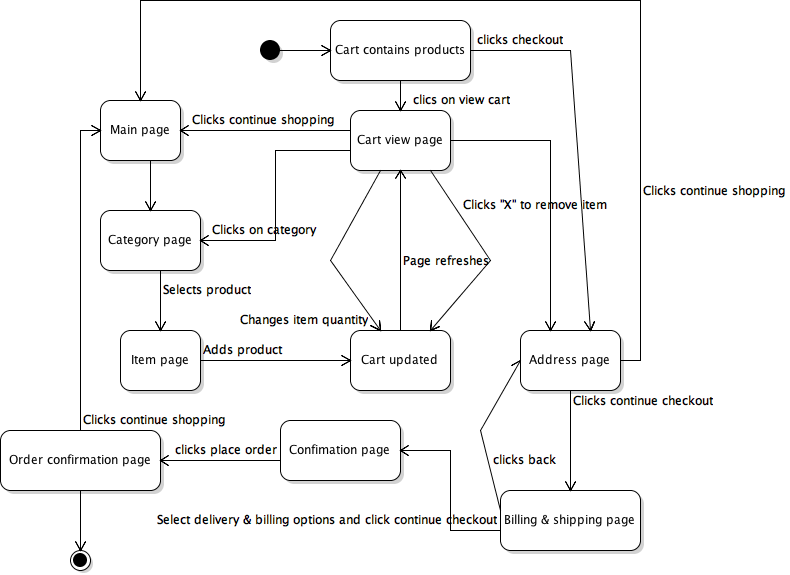
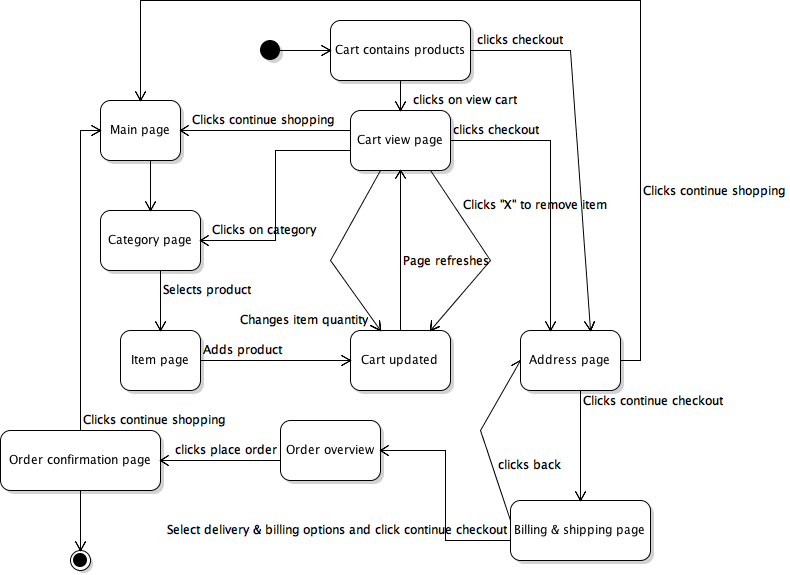
rewritted post-conditions, steps and expected results + spellchecking and some diagram changes

diff --git a/Project2.tex b/Project2.tex
@@ -15,7 +15,7 @@
 \usepackage{bookmark}
 
 
-\title{Project 2 \\ Report \\ INF4121/3121} % Title
+\title{Project 2 - Report - INF4121/3121} % Title
 \date{\today} % Date for the report
 \author{Sebasting Søberg(INF4121) \& Thomas Oddsund(INF3121)}
 
@@ -23,19 +23,23 @@
 \renewcommand{\labelenumii}{\theenumii}
 \renewcommand{\theenumii}{\arabic{enumii}.}
 
+%post condition vs expected results: http://www.klaros-testmanagement.com/en/forum/-/message_boards/message/144168
+
+
 
 \begin{document}
 \maketitle % Insert the title, author and date
 
 \section{Requirement 1}
 \subsection{Test cases}
-Dynamic Technique - blacbox/experience based testing
+We use state diagram to describe every use-case. When analyzing the use cases we assume that all the observable results relate to the demo store, and for that reason every time a user gets an email it's under Expected results instead of post-conditions.
+
 \begin{enumerate}%all manual test cases
 \item
 \begin{figure}[!h]
 \centering
-\includegraphics[scale=0.6,keepaspectratio]{Images/CreateAccount.png}
-\caption{Create account state diagram}
+\includegraphics[scale=0.7,keepaspectratio]{Images/CreateAccount.png}
+\caption{Create Account}
 \end{figure}
 \newpage
 \textbf{\hspace{0.3cm}Type\hspace{4.4cm} Description}
@@ -44,31 +48,31 @@ Dynamic Technique - blacbox/experience based testing
 	\hline
 	 Title & Create account\\ \hline
 	 Objective & To create a valid account that can be used for online shopping on \href{http://demo.avactis.com/4.7.9/}{\textbf{this site}.} \\ \hline
-	 Pre-conditions & User have Email\\ \hline
-	 Steps & \begin{enumerate} \item User opens browser \item User goes to Avactis shopping site \item User clicks \textit{My account or  Sign in} in the top right corner. \item User clicks register \item User fills in necessary information and clicks register after.\end{enumerate} \\ \hline
-	 Post-conditions & \begin{enumerate} \item Website says the following in a green field: \textit{Account created successfully. You are now registered.} \item A user gets a verification email about the account registration\end{enumerate}\\ \hline
-	 Expected results & User registered in avactis user database.\\ 
+	 Pre-conditions & User has Email\\ \hline
+	 Steps & \begin{enumerate} \item User goes to Avactis shopping site \item User clicks \textit{My account or  Sign in} in the top right corner. \item User clicks register \item User fills in necessary information and clicks register after.\end{enumerate} \\ \hline
+	 Post-conditions & \begin{enumerate} \item Website says the following in a green field: \textit{Account created successfully. You are now registered.} \item \textit{Sign in} changes to \textit{sign out} \end{enumerate}\\ \hline
+	 Expected results & \begin{enumerate} \item User registered in avactis user database. \item User gets a verification email \item User is now logged in \end{enumerate}\\ 
 	 \hline
 \end{tabular} % & \\ \hline
 
 \item
-%Dette diagrammet er egentlig et activity diagram, er kanskje ikke lov?
 \begin{figure}[!h]
 \centering
 \includegraphics[scale=0.7,keepaspectratio]{Images/Login.png}
 \caption{Login}
 \end{figure}
 
+\newpage
 \textbf{\hspace{0.3cm}Type\hspace{4.4cm} Description}
 \newline \vspace{0.2cm}
 \begin{tabular}{| p{5cm} | p{10cm} | }
 	\hline
 	 \textbf{Title} & Logging in\\ \hline
 	 \textbf{Objective} & To verify that a user is registered by logging in\\ \hline
-	 \textbf{Pre-conditions} & The user have a valid account\\ \hline
+	 \textbf{Pre-conditions} & The user has a valid account\\ \hline
 	 \textbf{Steps} & \begin{enumerate} \item A user opens a browser and goes to the website \item A user clicks \textit{sign in/my account} in the top right corner. \item The user fills in login details and clicks sign in \end{enumerate} \\ \hline
-	 \textbf{Post-conditions} & \begin{enumerate} \item The user has an ongoing session with the shopping website \item The \textit{My Account} page loads \end{enumerate} \\ \hline
-	 \textbf{Expected results} &  The user succesfully logs in and the website changes from the title \textit{sign in} in the top right corner to \textit{sign out} which indicates that you have an active session and succesfully logged in.\\ 
+	 \textbf{Post-conditions} & \begin{enumerate} \item The user has an ongoing session with the shopping website \item The \textit{My Account} page is loaded \item the website changes from the title \textit{sign in} in the top right corner to \textit{sign out} \end{enumerate} \\ \hline
+	 \textbf{Expected results} & The user has an active session  \\ 
 	 \hline
 \end{tabular} % & \\ \hline
 
@@ -88,12 +92,12 @@ Dynamic Technique - blacbox/experience based testing
 	 \textbf{Objective} & To change or alter you password\\ \hline
 	 \textbf{Pre-conditions} & A user account on avactis website\\ \hline
 	 \textbf{Steps} & \begin{enumerate} \item A user opens a browser and goes to the avactis site \item The user clicks \textit{My account or Sign in} \item The under the login fields the user press the link \textit{Forgot your password?} \item The user then enters their email and click continue \item The user then clicks on the reset link in their email \item Finally the user enter their new passord \end{enumerate} \\ \hline
-	 \textbf{Post-conditions} & New password to user account\\ \hline
-	 \textbf{Expected results} & A user's password is updated to something new \\ 
+	 \textbf{Post-conditions} & \begin{enumerate} \item A message pops up in green with: \textit{Your password has been reset. Further instructions have been sent to the e-mail address you provided during registration.} \item After entering a new password \textit{Password saved successfully.} pops up \end{enumerate}\\ \hline
+	 \textbf{Expected results} & \begin{enumerate} \item User gets email with link to change password. \item User has a active session after entering new password \end{enumerate} \\ 
 	 \hline
 \end{tabular} % & \\ \hline
 
-
+%\begin{enumerate} \end{enumerate}
 \item
 \begin{figure}[!h]
 \centering
@@ -107,38 +111,38 @@ Dynamic Technique - blacbox/experience based testing
 	\hline
 	 \textbf{Title} & Select Products \\ \hline
 	 \textbf{Objective} & Put different products in the cart and manage the quantity of each item \\ \hline
-	 \textbf{Pre-conditions} & Avactis user account \\ \hline
+	 \textbf{Pre-conditions} & User has avactis account \\ \hline
 	 \textbf{Steps} & \begin{enumerate} \item Go to main page and click \textit{Sign in/My Account} \item Fill in username and password and click sign in \item Select categories to shop from \item Select one or more products and their quantity.
 	 \end{enumerate} \\ \hline
-	 \textbf{Post-conditions} & Cart contains products \\ \hline
+	 \textbf{Post-conditions} & \begin{enumerate} \item Item and price counter changes \item Cart contains products \end{enumerate}  \\ \hline
 	 \textbf{Expected results} & Cart contains products \\ 
 	 \hline
 \end{tabular} % & \\ \hline
-%post condition vs expected results: http://www.klaros-testmanagement.com/en/forum/-/message_boards/message/144168
+
 
 
 \item % basically this test case and diagram shall cover 3-5
 \begin{figure}[!h]
 \centering
 \includegraphics[scale=0.60,keepaspectratio]{Images/BuyProductsandChangeCart.png}
-\caption{Shopping cart, change quantity and finalize}
+\caption{Manage shopping cart, change quantity and place order}
 \end{figure}
 \newpage
 \textbf{\hspace{0.3cm}Type\hspace{4.4cm} Description}
 \newline \vspace{0.2cm}
 \begin{tabular}{| p{5cm} | p{10cm} | }
 	\hline
-	 \textbf{Title} & Checkout, products quantity, add/remove, finalizing and logout \\ \hline
+	 \textbf{Title} & Shopping cart management, Checkout, products quantity, add/remove items and purchasing \\ \hline
 	 \textbf{Objective} & Test that the cart indeed contains the chosen products after shopping session \\ \hline
 	 \textbf{Pre-conditions} & Avactis user account and a cart of products \\ \hline
 	 \textbf{Steps} & \begin{enumerate} \item Click View cart \item Change items quantity \item Click checkout \item Fill in Billing \& shipping address and click continue checkout \item Select Billing and delivery options \item Click place order
 	 \end{enumerate} \\ \hline
-	 \textbf{Post-conditions} & \\ \hline
-	 \textbf{Expected results} & \\ 
+	\textbf{Post-conditions} & \begin{enumerate}\item Item and price counter changes \item Website states goes to order confirmation page \item Webpage with following message: \textit{Your order is placed. Order ID: \#00001 Order details have been sent to your e-mail address.}  \end{enumerate} \\ \hline
+	 \textbf{Expected results} & \begin{enumerate}\item Users gets order confirmation mail \item Cart is empty \item Item and money counter is zero initialized \end{enumerate}\\ 
 	 \hline
 \end{tabular} % & \\ \hline
 
-
+%TODO: Include x button right from shopping draw menu in cart "menu"
 
 \item
 \begin{figure}[!h]
@@ -155,8 +159,8 @@ Dynamic Technique - blacbox/experience based testing
 	 \textbf{Objective} & To log out of Avactis webstore \\ \hline
 	 \textbf{Pre-conditions} & A user account \\ \hline
 	 \textbf{Steps} & \begin{enumerate} \item Go to Avactis homepage and click sign in \item Enter password and username \item click logout  \end{enumerate}\\ \hline
-	 \textbf{Post-conditions} & \\ \hline
-	 \textbf{Expected results} & \\ 
+	 \textbf{Post-conditions} & \begin{enumerate}\item\textit{Sign in} changes to \textit{sign out} \item The active session is ended on the website \end{enumerate}  \\ \hline
+	 \textbf{Expected results} & The user is logged out\\ 
 	 \hline
 \end{tabular} % & \\ \hline
 
@@ -183,7 +187,7 @@ Dynamic Technique - blacbox/experience based testing
 \end{enumerate}
 
 \subsection{Error finding and reporting}
-When logged timed out you need to re-register your account.
+User account gets deleted after some hours of inactivity.
 
 
 
